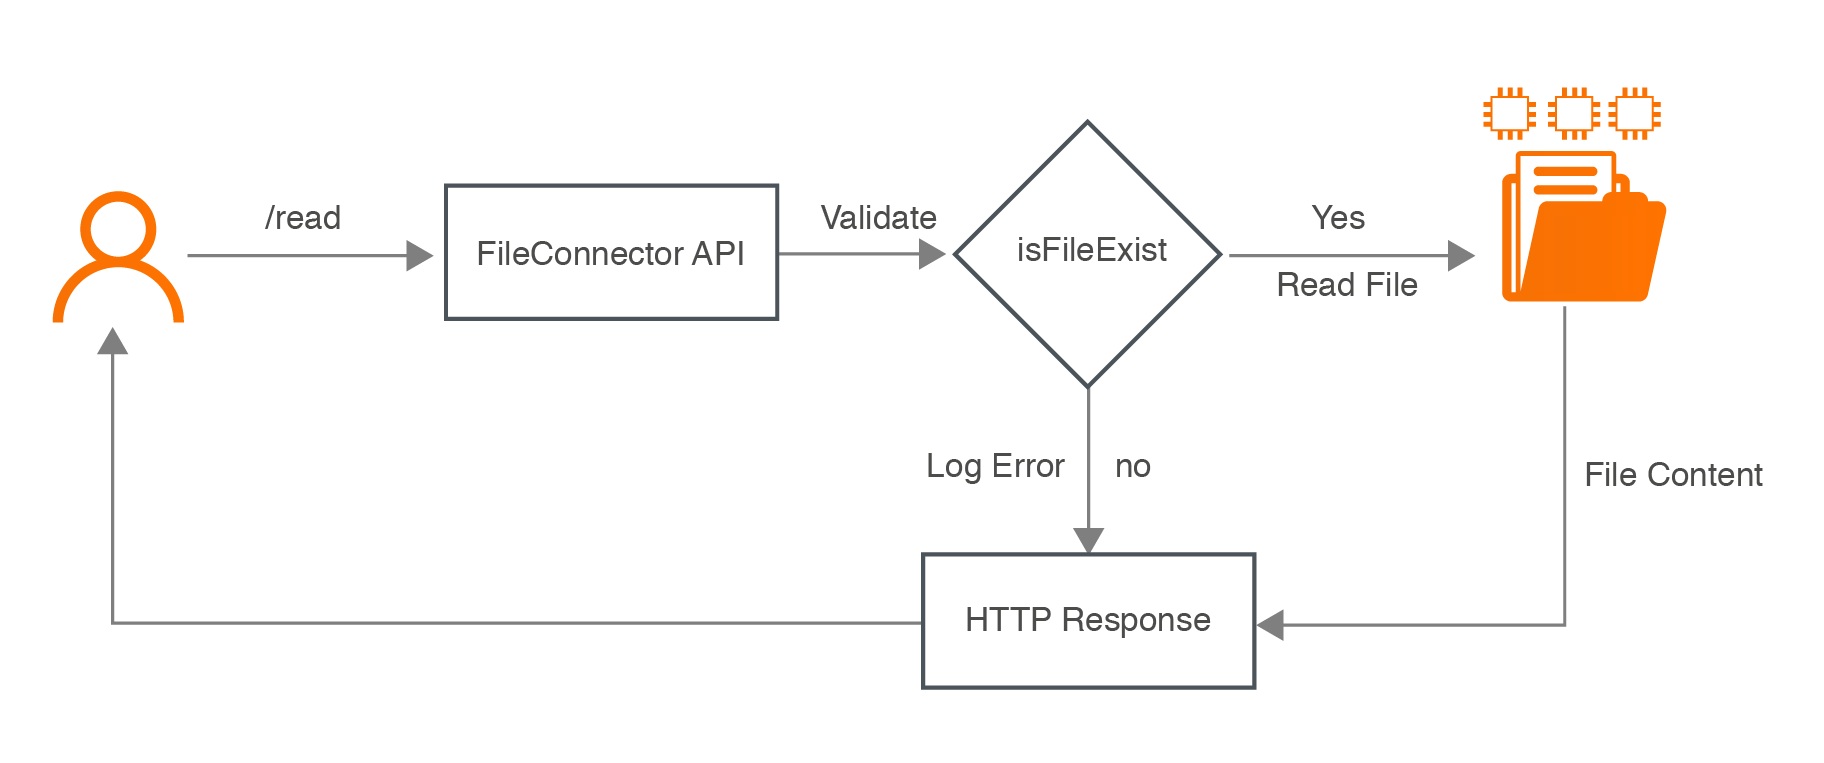
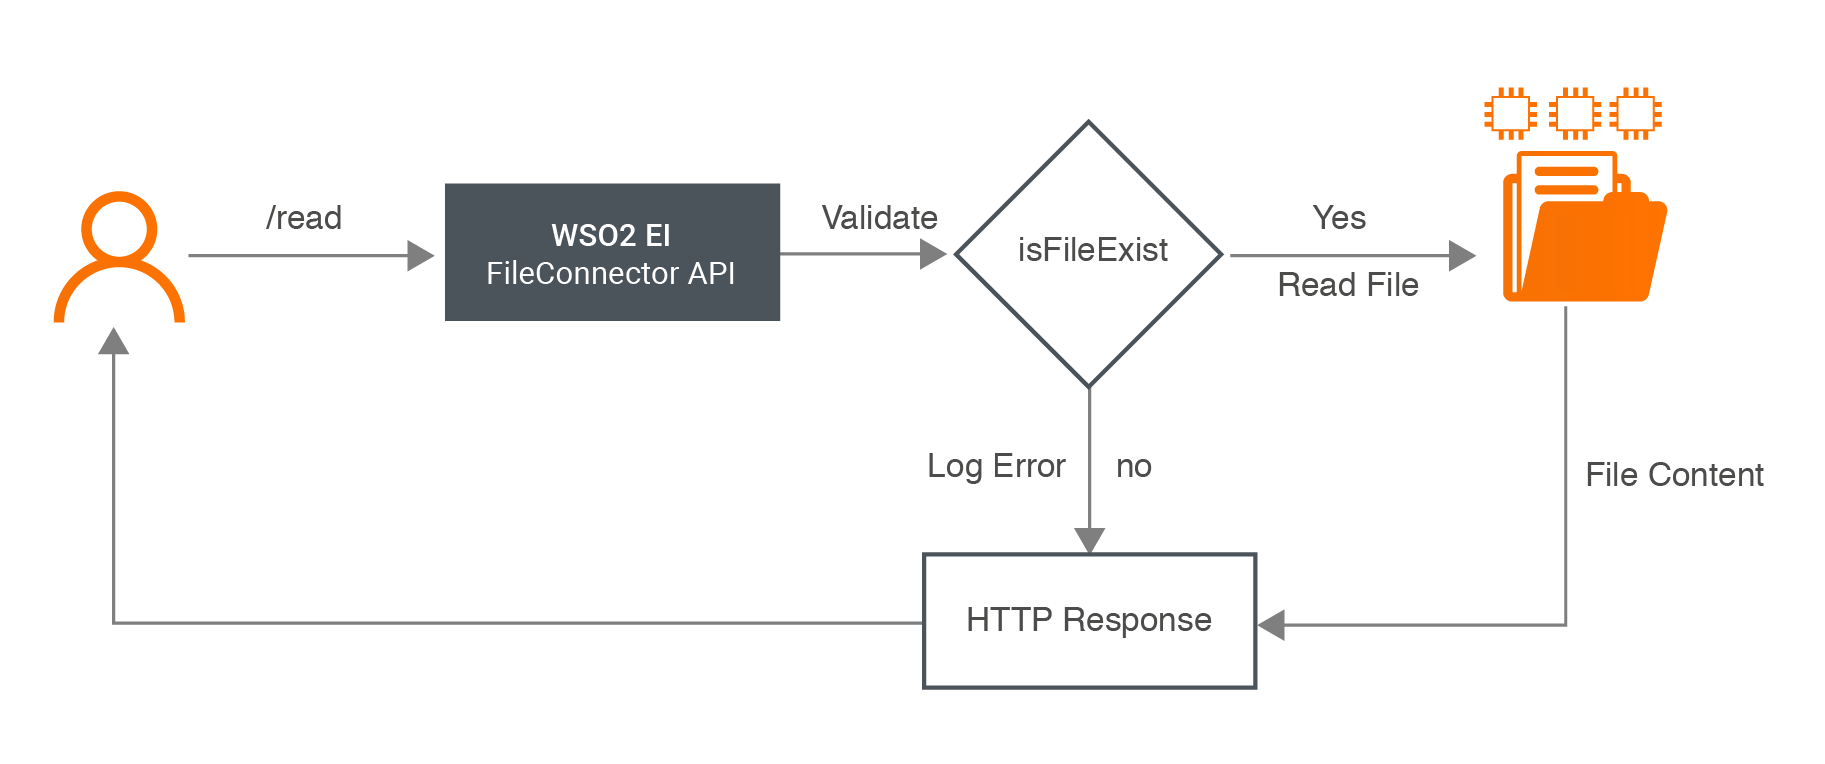
add FileConnector changes

diff --git a/en/micro-integrator/docs/references/connectors/file-connector/file-connector-example.md b/en/micro-integrator/docs/references/connectors/file-connector/file-connector-example.md
@@ -12,11 +12,13 @@ This example explains how to use File Connector to create a file in the local fi
 
 It will have two HTTP API resources, which are `create` and `read`. 
 
-* `/create `: It will create a file with the content that the user specifies in the payload. 
-    <p><img src="../../../../assets/img/connectors/FileConnector-03.png" title="Adding a Rest API" width="800" alt="Adding a Rest API" /></p>
+* `/create `: User sends the request payload which includes the location where the file needs to be saved and the content needs to be added to the file. This request is sent to WSO2 EI by invoking the FileConnector API. It will save the file in the specified location with the relevant content. 
 
-* `/read `: It will first check if the file exists. If so it will read the content of the file. 
-    <img src="../../../../assets/img/connectors/FileConnector-02.png" title="Adding a Rest API" width="800" alt="Adding a Rest API"/>
+    <p><img src="/assets/img/connectors/FileConnector-03.png" title="Adding a Rest API" width="800" alt="Adding a Rest API" /></p>
+
+* `/read `: User sends the request payload which includes the location of the file which it needs to be read. This request is sent to WSO2 EI where the FileConnector API resides. Once the API is invoked, it first checks if the file exists in the specified location. If exists, the content is read and response is sent to the user. If the file does not exist, it sends an error response to the user. 
+
+    <img src="/assets/img/connectors/FileConnector-02.png" title="Adding a Rest API" width="800" alt="Adding a Rest API"/>
 
 If you do not want to build this yourself, you can simply [get the project](#get-the-project) and run it.
 
@@ -27,9 +29,52 @@ Follow these steps to set up the ESB Solution Project and the Connector Exporter
 {!references/connectors/importing-connector-to-integration-studio.md!} 
 
 1. Right click on the created ESB Solution Project and select, -> **New** -> **Rest API** to create the REST API. 
-    <img src="../../../../assets/img/connectors/adding-an-api.png" title="Adding a Rest API" width="800" alt="Adding a Rest API"/>
+    <img src="/assets/img/connectors/adding-an-api.png" title="Adding a Rest API" width="800" alt="Adding a Rest API"/>
 
-2. Provide the API name as File Connector and the API context as `/fileconnector`. You can go to the source view of the xml configuration file of the API and copy the following configuration. 
+2. Provide the API name as File Connector and the API context as `/fileconnector`.
+
+3. First we will create the `/create` resource. Right click on the API Resource and go to **Properties** view. We use a URL template called `/create` as we have two API resources inside single API. The method will be `Post`. 
+    <img src="/assets/img/connectors/filecon-3.png" title="Adding the API resource." width="800" alt="Adding the API resource."/>
+
+4. In this operation we are going to receive input from user which are `source` and `inputContent`. 
+    - source - location of the file is going to be created
+    - inputContent - what needs to be written to the file. 
+
+5. The above two parameters are saved to properties. Therefore drag and drop property mediator to the design view and do as shown below. 
+    <img src="/assets/img/connectors/filecon-1.png" title="Adding a property" width="800" alt="Adding a property"/>
+
+6. Add the another Property Mediator to get the InputContent value copied. Do the same as in the above step. 
+    - property name: InputContent
+    - Value Type: EXPRESSION
+    - Value Expression: json-eval($.inputContent)
+
+7. Now drag and drop create operation of the File Connector to the Design View as shown below. Set the parameter values as below. We use the property values that we add in step 10 and 11 in this step as `$ctx:source` and `$ctx:inputContent`.
+    <img src="/assets/img/connectors/file-con2.png" title="Adding createFile operation" width="800" alt="Adding createFile operation"/>
+
+8. Finally add a Respond Mediator as user needs to see the response. Now we are done with creating the first API resource, and it is displayed as below. 
+    <img src="/assets/img/connectors/filecon9.png" title="First API Resource" width="800" alt="First API Resource"/>
+
+9. Now we can create the next API resource which is `/read`. From this we are going to read the file content from a user specified location. 
+
+10. As described in step 8, drag and drop another API resource to the design view. Use the URL template as `/read`. The method will be POST. 
+
+11. In this operation user sends the file location as the request payload. It will be written to property as we did in step 10. 
+    <img src="/assets/img/connectors/filecon4.png" title="Adding property mediator" width="800" alt="Adding property mediator"/>
+
+12. Then we are going to check if the file actually exists in the specified location. We can use `isFileExists` operation of the File Connector. 
+    <img src="/assets/img/connectors/filecon5.png" title="Adding property mediator" width="800" alt="Adding property mediator"/>
+
+13. Then we copy the `isFileExists` response to a property mediator. Add another property mediator and add values as shown below. 
+    <img src="/assets/img/connectors/filecon6.png" title="Adding property mediator" width="800" alt="Adding property mediator"/>
+
+14. Based on its response we decide if we read the file or print an error to the user. In this case, we use a Switch Mediator.
+    <img src="/assets/img/connectors/filecon7.png" title="Adding switch mediator" width="800" alt="Adding switch mediator"/>
+
+15. Drag and drop the read operation to the **case** in the Switch mediator. To the default case log an error. 
+    <img src="/assets/img/connectors/filecon8.png" title="switch mediator" width="800" alt="switch mediator"/>
+
+ 16. You can find the complete API XML configuration below. You can go to the source view and copy paste the following config. 
+
     ```
     <?xml version="1.0" encoding="UTF-8"?>
     <api context="/fileconnector" name="FileConnector" xmlns="http://ws.apache.org/ns/synapse">
